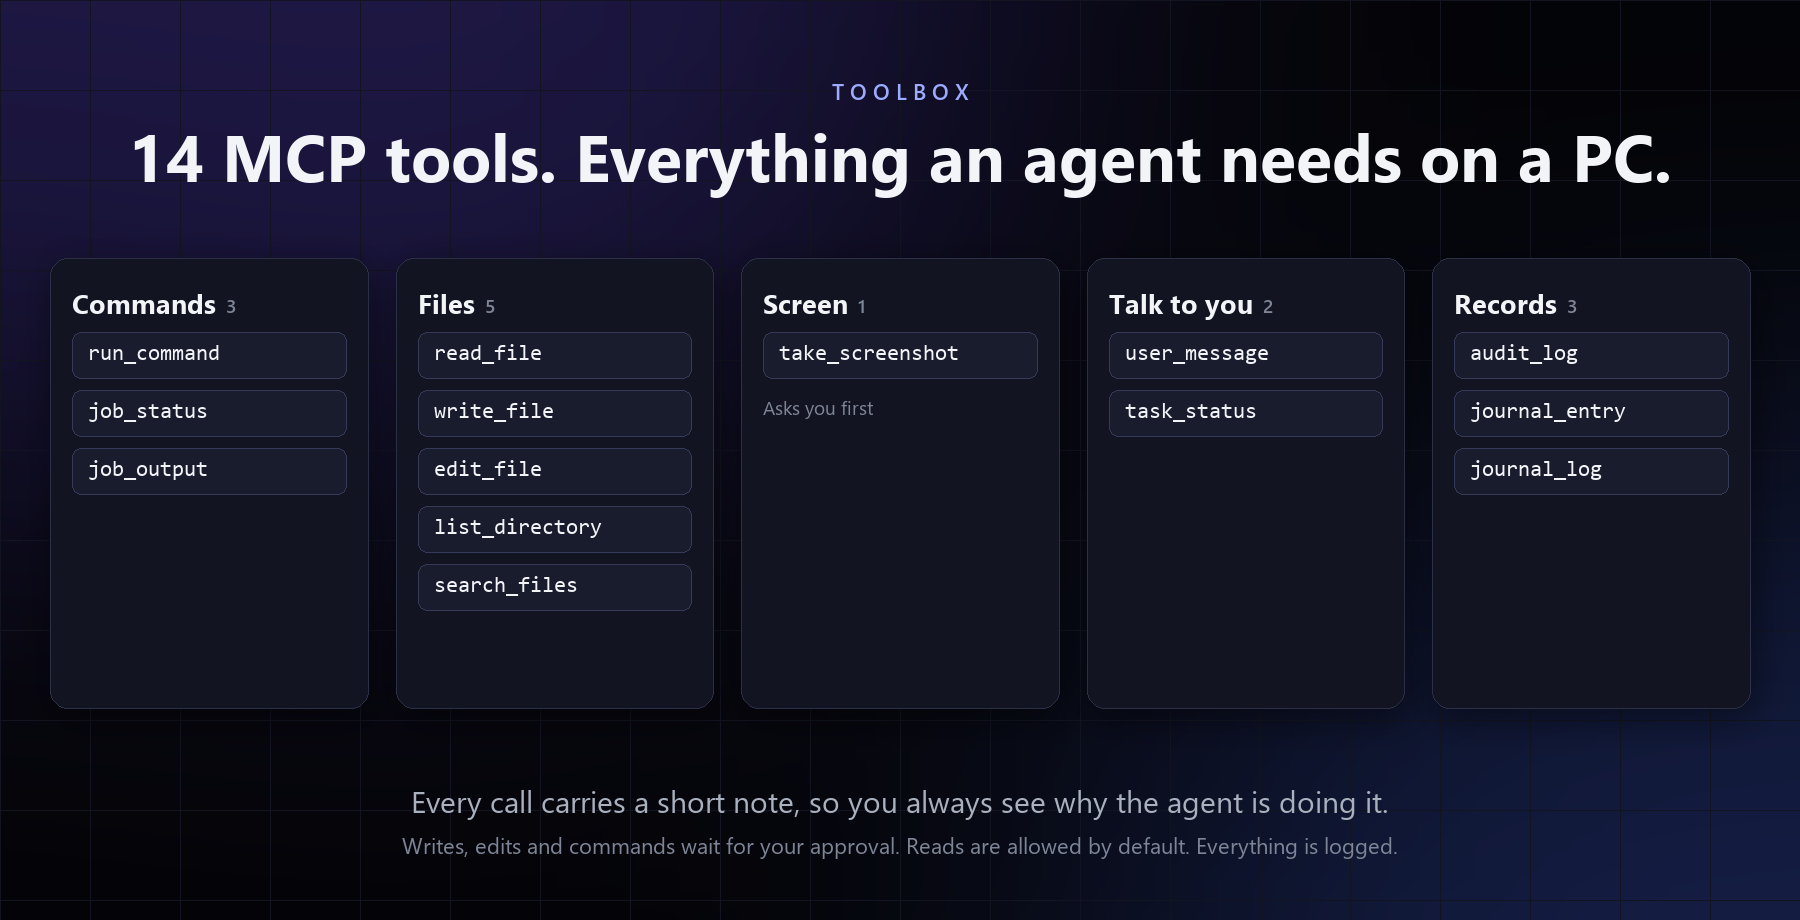
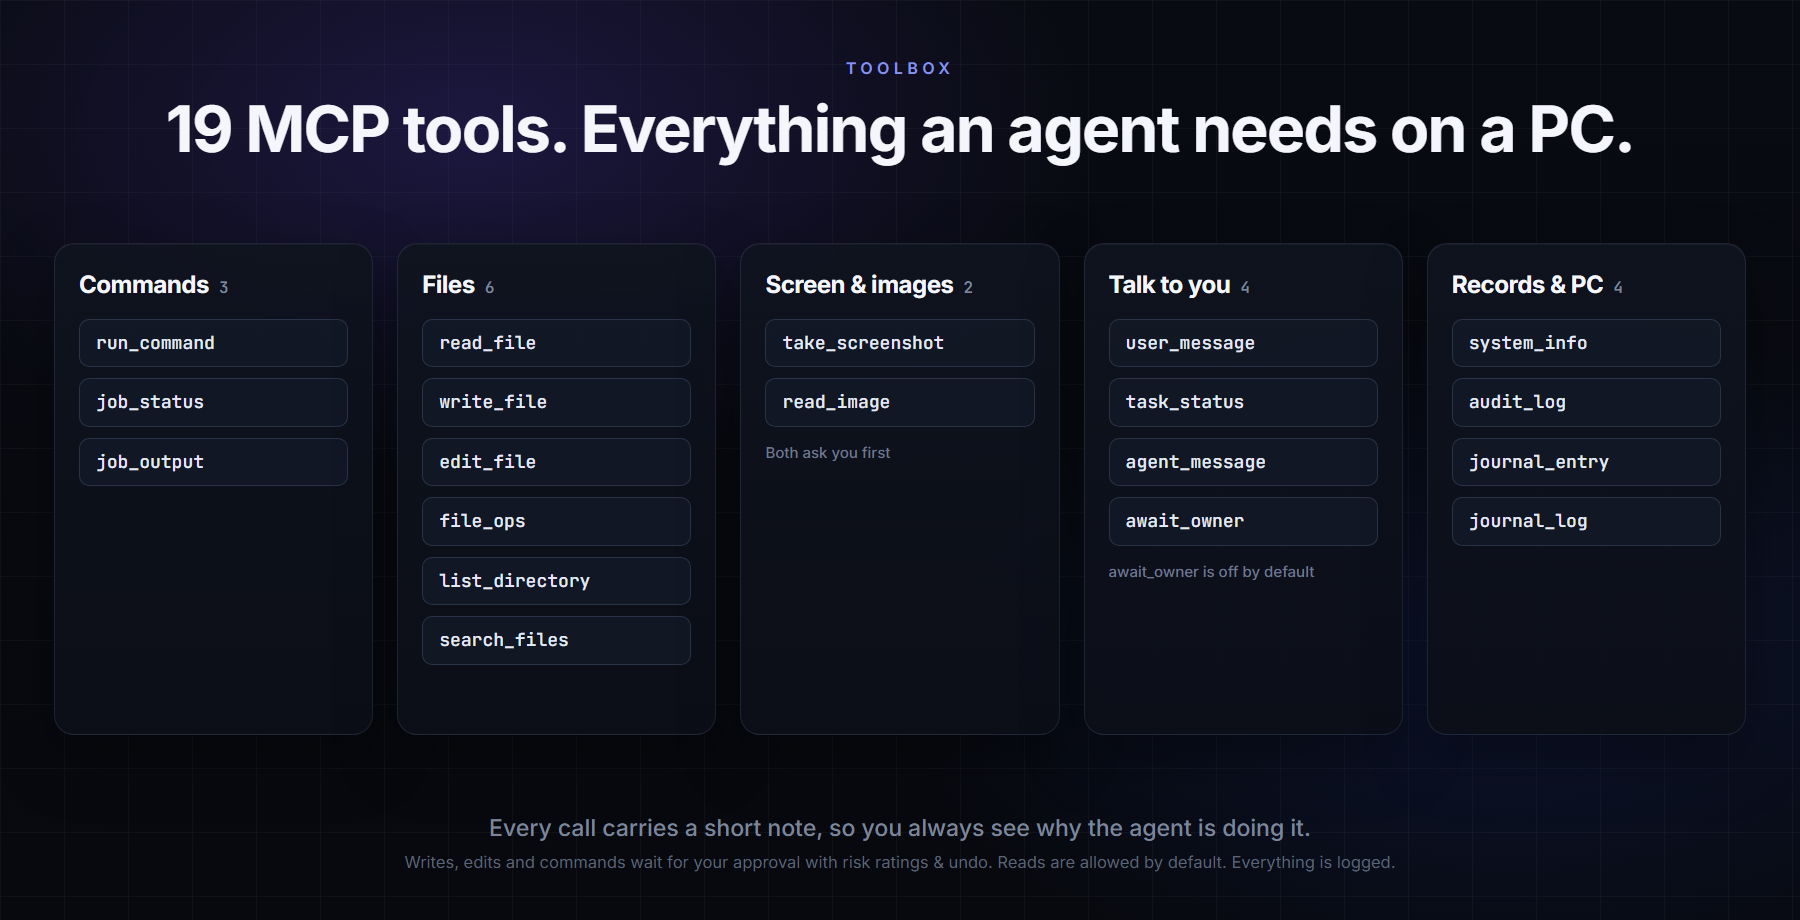
docs: update tools overview image to 19 MCP tools for v0.5.0

diff --git a/README.md b/README.md
@@ -30,7 +30,7 @@ https://github.com/user-attachments/assets/525d61c6-c8bc-4902-a694-90eb2ba04891
 
 Each PC keeps its own approvals, tokens and audit log: a token for one PC does not work on another.
 
-![MCP tools: commands, files, screen, messages to you, records](docs/media/tools.png)
+![19 MCP tools: commands, files, screen, images, messages, PC info, records](docs/media/tools.png)
 
 ## Features
 
